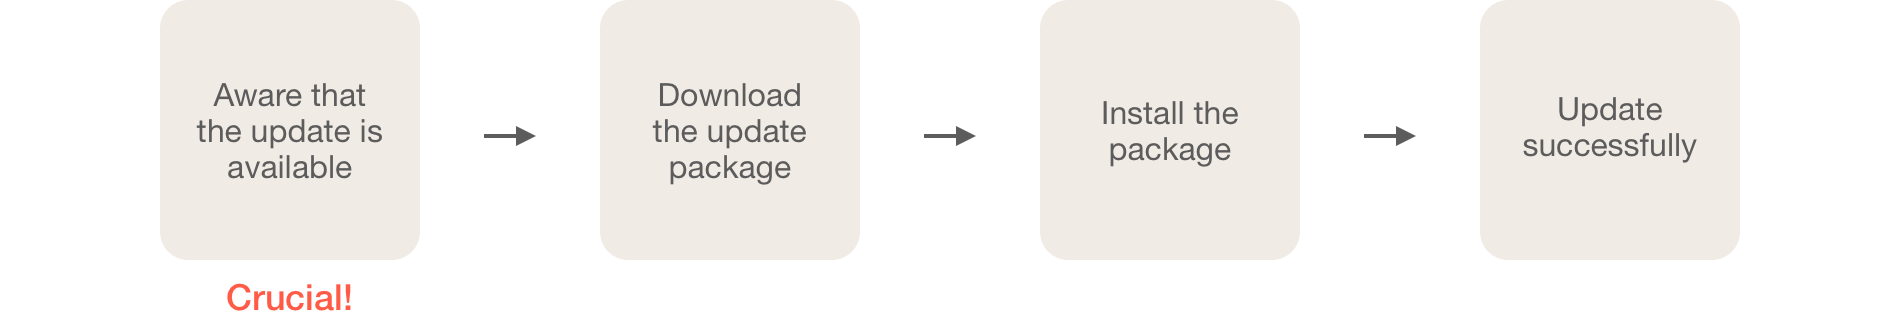
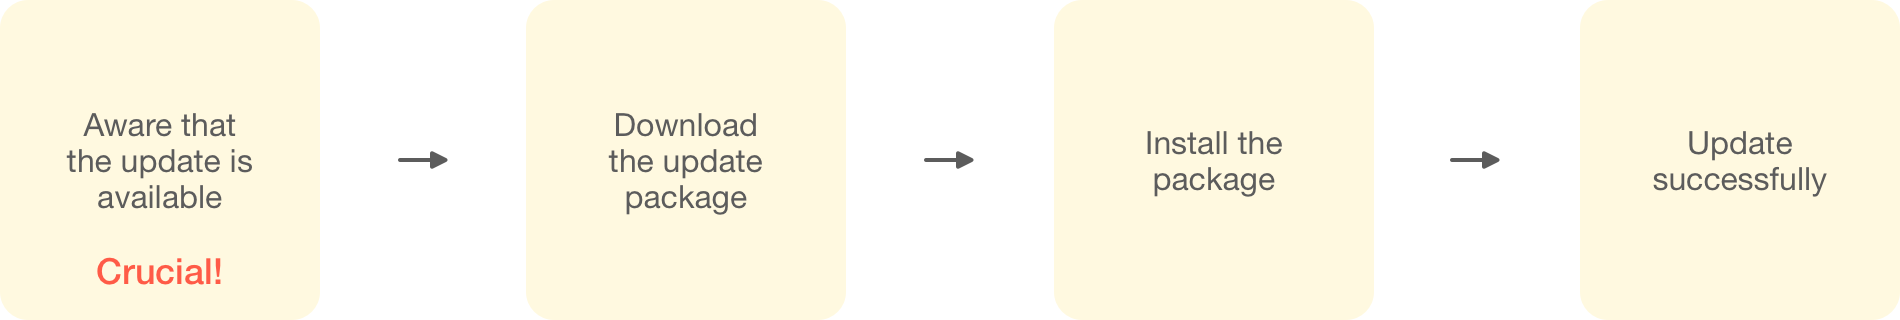
updated spacing and screenshots

diff --git a/body.html b/body.html
@@ -85,7 +85,7 @@
         <h2 id="list-item-2"><span class="headingTag">Approach</span><br>
           Ordering the Data Based on Physiological Fluctuations</h2>
         <div class="mySectionGroup">
-          <div class="genScreenshot"><img src="images/scale/scale_approach.gif"/> </div>
+          <div class="genScreenshot"><img src="images/scale/scale_order.webp"/> </div>
         </div>
         <h2 id="list-item-3"><span class="headingTag">Design</span><br>
           The User Flow</h2>
@@ -100,14 +100,14 @@
         <div class="mySectionGroup">
           <h2 id="list-item-4"><span class="headingTag">Design</span><br>
             User Interfaces</h2>
-          <div class="genScreenshot"><img src="images/scale/scale_home.gif"/> </div>
-          <div class="genScreenshot"><img src="images/scale/scale_card.gif"/> </div>
+          <div class="genScreenshot"><img src="images/scale/scale_home.webp"/> </div>
+          <div class="genScreenshot"><img src="images/scale/scale_card.webp"/> </div>
         </div>
         <div class="mySectionGroup">
           <h2 id="list-item-5"><span class="headingTag">Design</span><br>
             Illustrations for Physique Rating</h2>
           <div class="genScreenshot"><img src="images/scale/progress_1600_c.png"/></div>
-          <div class="genScreenshot"><img src="images/scale/scale_rating.gif"/> </div>
+          <div class="genScreenshot"><img src="images/scale/scale_rating.webp"/> </div>
         </div>
       </main>
       <p></p>

diff --git a/updatecenter.html b/updatecenter.html
@@ -125,7 +125,7 @@
           <p>The objective was to enhance the success rate of updates and reduce the workload of the Customer Care team. To achieve this, we aimed to eliminate any obstacles faced by the customers. After analyzing the user journey and taking into account customer feedback, we concluded that the ugly UI was not as significant a problem as the notification system and instructions. Therefore, we prioritized our focus as below:
 </p>
          
-          <div class="genScreenshot"><img src="images/update/update_priority.png"/>
+          <div class="genScreenshot"><img src="images/update/update_priority.webp"/>
 
           </div>
 		  <h2 id="list-item-5"><span class="headingTag">Final Design</span><br>

diff --git a/content.html b/content.html
@@ -5,7 +5,7 @@
 <meta http-equiv="X-UA-Compatible" content="IE=edge">
 <meta name="viewport" content="width=device-width, initial-scale=1">
 <!-- InstanceBeginEditable name="doctitle" -->
-<title>Kelsey Tang | Content Design</title>
+<title>Kelsey Tang | UX Writing Challenges</title>
 <!-- InstanceEndEditable -->
 <!-- Bootstrap -->
 <link href="css/bootstrap-4.4.1.css" rel="stylesheet">
